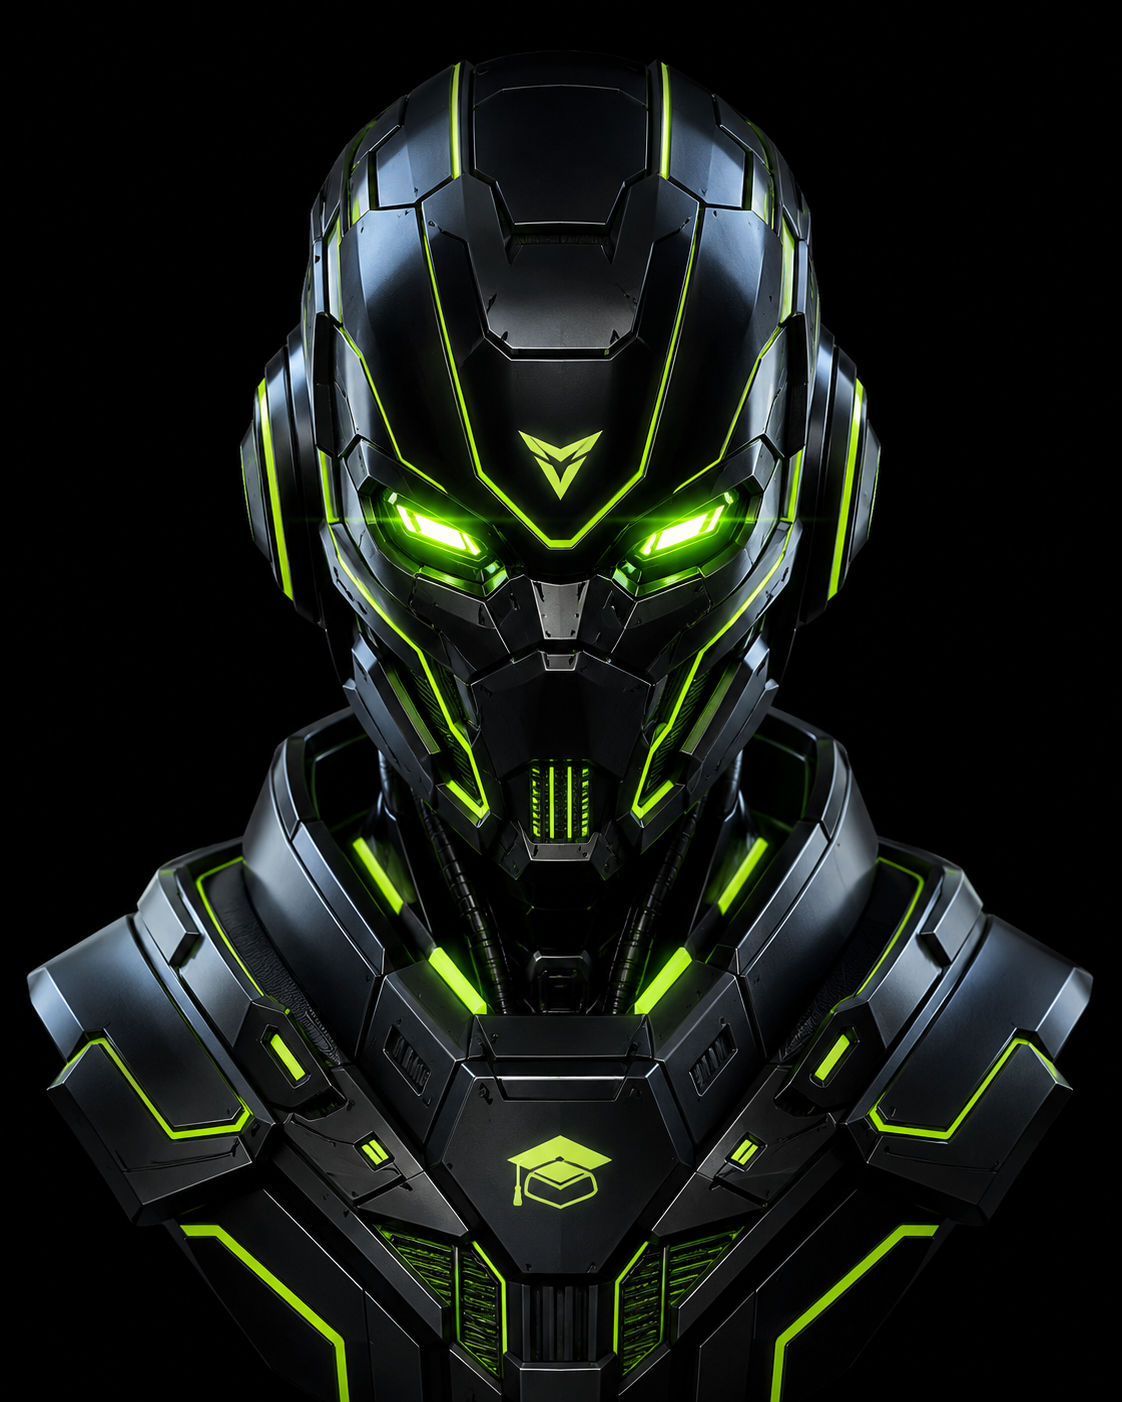
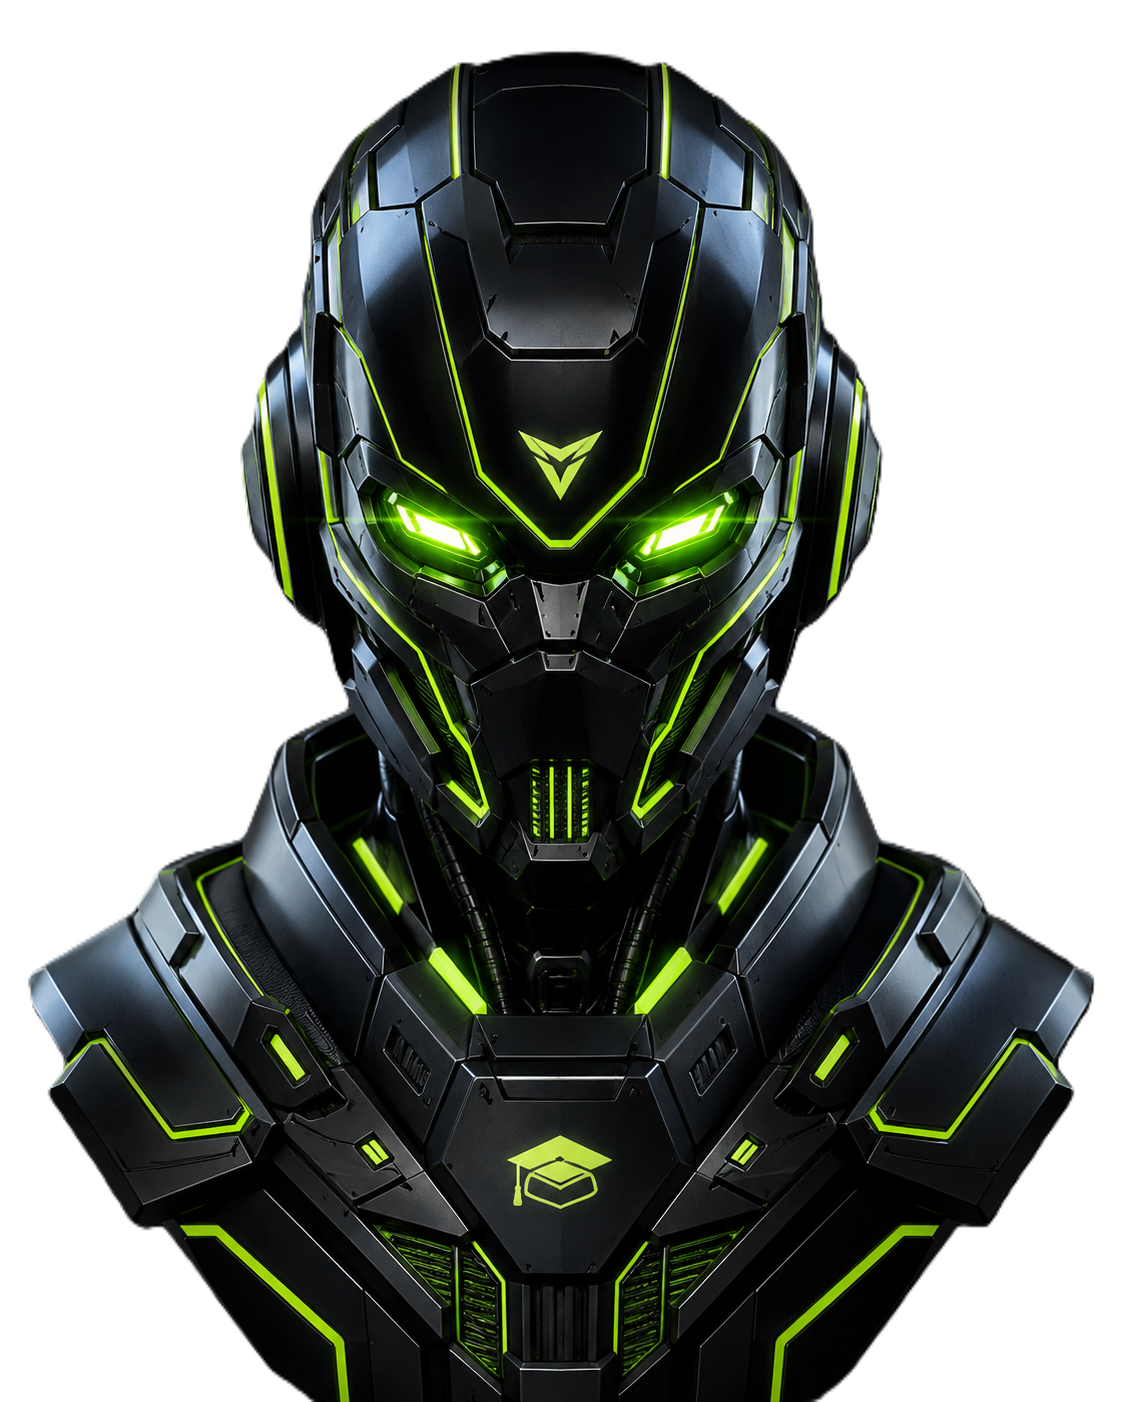
feat: implement cinematic neural link welcome sequence after sign-in

diff --git a/client/src/components/OnboardingWelcome.jsx b/client/src/components/OnboardingWelcome.jsx
@@ -1,0 +1,124 @@
+import React, { useEffect, useState } from 'react';
+import robotImg from '../assets/ChatGPT Image May 8, 2026, 11_54_05 PM.png';
+
+const OnboardingWelcome = ({ user, onComplete }) => {
+  const neonGreen = '#B3FF00';
+  const [text, setText] = useState('');
+  const fullText = `WELCOME, OPERATIVE ${user?.displayName?.toUpperCase() || 'UNKNOWN'}. NEURAL LINK ESTABLISHED. INITIALIZING SURVIVAL PROTOCOLS...`;
+
+  useEffect(() => {
+    let index = 0;
+    const timer = setInterval(() => {
+      setText(fullText.slice(0, index));
+      index++;
+      if (index > fullText.length) {
+        clearInterval(timer);
+        // Wait a bit after typing is done before transitioning
+        setTimeout(onComplete, 2000);
+      }
+    }, 50);
+    return () => clearInterval(timer);
+  }, [user, onComplete]);
+
+  return (
+    <div style={{
+      height: '100vh',
+      width: '100vw',
+      backgroundColor: '#000',
+      display: 'flex',
+      flexDirection: 'column',
+      alignItems: 'center',
+      justifyContent: 'center',
+      overflow: 'hidden',
+      position: 'relative'
+    }}>
+      {/* SCANLINE / CRT OVERLAY */}
+      <div style={{
+        position: 'absolute',
+        inset: 0,
+        background: 'linear-gradient(rgba(18, 16, 16, 0) 50%, rgba(0, 0, 0, 0.25) 50%), linear-gradient(90deg, rgba(255, 0, 0, 0.06), rgba(0, 255, 0, 0.02), rgba(0, 0, 255, 0.06))',
+        backgroundSize: '100% 2px, 3px 100%',
+        zIndex: 10,
+        pointerEvents: 'none',
+        opacity: 0.2
+      }} />
+
+      {/* K.A.I. VISUAL */}
+      <div style={{
+        position: 'relative',
+        width: 'min(80vh, 80vw)',
+        height: 'min(80vh, 80vw)',
+        display: 'flex',
+        alignItems: 'center',
+        justifyContent: 'center'
+      }}>
+        <img 
+          src={robotImg} 
+          alt="K.A.I." 
+          className="breathing-kai"
+          style={{
+            width: '100%',
+            height: 'auto',
+            filter: `drop-shadow(0 0 30px ${neonGreen}aa) sepia(100%) hue-rotate(45deg) saturate(3) brightness(0.8)`,
+            zIndex: 5
+          }} 
+        />
+        
+        {/* EYE GLOW OVERLAY */}
+        <div style={{
+          position: 'absolute',
+          top: '35%',
+          left: '50%',
+          transform: 'translateX(-50%)',
+          width: '40%',
+          height: '10%',
+          background: `radial-gradient(ellipse, ${neonGreen} 0%, transparent 70%)`,
+          opacity: 0.6,
+          zIndex: 6,
+          filter: 'blur(20px)',
+          animation: 'eye-flicker 2s infinite'
+        }} />
+      </div>
+
+      {/* WELCOME TEXT */}
+      <div style={{
+        marginTop: '40px',
+        color: neonGreen,
+        fontFamily: '"Share Tech Mono", monospace',
+        fontSize: '20px',
+        letterSpacing: '3px',
+        textAlign: 'center',
+        maxWidth: '800px',
+        padding: '0 20px',
+        textShadow: `0 0 10px ${neonGreen}88`,
+        zIndex: 11
+      }}>
+        {text}<span className="cursor">_</span>
+      </div>
+
+      <style>{`
+        @keyframes breathing {
+          0%, 100% { transform: scale(1); filter: brightness(0.8) drop-shadow(0 0 30px ${neonGreen}aa) sepia(100%) hue-rotate(45deg) saturate(3); }
+          50% { transform: scale(1.02); filter: brightness(1.1) drop-shadow(0 0 50px ${neonGreen}) sepia(100%) hue-rotate(45deg) saturate(4); }
+        }
+        .breathing-kai {
+          animation: breathing 4s ease-in-out infinite;
+        }
+        @keyframes eye-flicker {
+          0%, 100% { opacity: 0.4; transform: translateX(-50%) scale(1); }
+          50% { opacity: 0.8; transform: translateX(-50%) scale(1.1); }
+          90% { opacity: 0.4; }
+          95% { opacity: 1; }
+        }
+        .cursor {
+          animation: blink 1s step-end infinite;
+        }
+        @keyframes blink {
+          50% { opacity: 0; }
+        }
+      `}</style>
+    </div>
+  );
+};
+
+export default OnboardingWelcome;

diff --git a/client/src/App.jsx b/client/src/App.jsx
@@ -7,6 +7,7 @@ import ignisVideo from './assets/Technology isometric ai robot brain.webm';
 import kaiLogo from './assets/Screenshot 2026-05-08 175656.png';
 import StarsBackground from './components/StarsBackground.jsx';
 import LandingPage from './components/LandingPage.jsx';
+import OnboardingWelcome from './components/OnboardingWelcome.jsx';
 
 function LoadingProgressBar({ loading, label }) {
   if (!loading) return null;
@@ -723,6 +724,13 @@ function App() {
   };
 
   const { currentUser, loadingAuth, signInWithGoogle, signOutUser, deleteAccount } = useAuth();
+  const [showWelcome, setShowWelcome] = useState(false);
+
+  useEffect(() => {
+    if (currentUser && !showWelcome && !uploadId) {
+      setShowWelcome(true);
+    }
+  }, [currentUser]);
 
   const apiBase = import.meta.env.VITE_API_URL ?? '';
 
@@ -1203,6 +1211,7 @@ function App() {
 
   if (loadingAuth) return <div style={{ padding: 24, fontFamily: 'Arial, sans-serif' }}><h1>K.A.I.</h1><p>Checking session...</p></div>;
   if (!currentUser) return <LandingPage signInWithGoogle={signInWithGoogle} />;
+  if (showWelcome) return <OnboardingWelcome user={currentUser} onComplete={() => setShowWelcome(false)} />;
 
   return (
     <div style={{ display: 'flex', flexDirection: 'column', minHeight: '100vh', backgroundColor: 'transparent', transition: 'all 0.5s ease' }}>